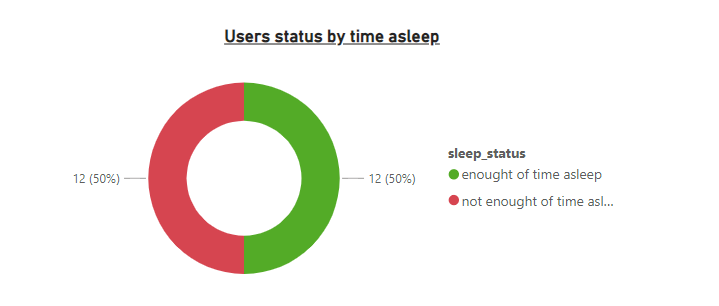
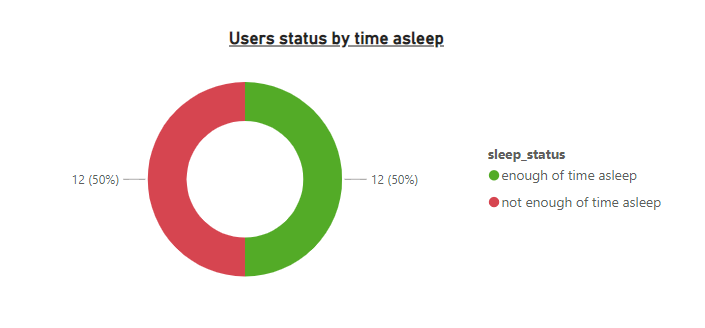
End of project

diff --git a/README.md b/README.md
@@ -200,22 +200,22 @@ GROUP BY Id;
 >The grapf shows us that only 13 users (39%) are very activ or active, i.e. more than 10 000 steps, and 20 users (61%) are less then 10 000 steps per day.
 #### 5.2.4 Sleep breakdowns
 A Sleepfoundation.org article [Sleep Calculator: Your Personalized Tool for Sleep](https://www.sleepfoundation.org/sleep-calculator) in 2023 which found that 7 or more hours is a reasonable target for healthy adults. So I divided users into two categories:
-- **Not enought of time asleep** - less then 7 hours
-- **Enought of time asleep** - 7 and more hours 
+- **Not enough of time asleep** - less then 7 hours
+- **Enough of time asleep** - 7 and more hours 
 ```
 SELECT 
   Id,
   (AVG(TotalMinutesAsleep)/60) as Asleep_time,
   CASE
-    WHEN (AVG(TotalMinutesAsleep)/60) < 7.0 THEN "not enought of time asleep"
-    ELSE "enought of time asleep"
+    WHEN (AVG(TotalMinutesAsleep)/60) < 7.0 THEN "not enough of time asleep"
+    ELSE "enough of time asleep"
   END sleep_status,
  FROM `bellabeat-401316.bellabeat.daily_sleep`
  GROUP BY Id;
 ```
 ![Users status asleep](https://github.com/OndrejZapletal99/Google_capstone_project/blob/main/PowerBi/user_status_asleep.png)
 
->The graph shows us that only 50% of users have enought time of asleep.
+>The graph shows us that only 50% of users have enough time of asleep.
 
 The next graph will confirm or refute the hypothesis that people with 10 000 steps sleep aroud 8 and more hours.
 
@@ -233,4 +233,11 @@ s.Id,
 
  >The graph shows us that people with 10 000 steps (aprox.) sleep around 7-8 hours in average. But the graph shows outliers, which can be measurement errors.
 
-## 7. Act
+## 7. Act - Summary a Recommendations
+1. More then 50 % of users are Light active or Moderate active in the use of device. Maybe it could be good prepare some challenges to use the device more. FOr example:
+  - daily, weeklyn mothly challenges
+  - notifications/reminders
+2. More than 61 % of users do not achieve 10 000 steps/ day and 21 % users do not even walk 5000 steps. The company could launch a campaign on the topic of minimum steps for a good health.
+3. More then 50% of users do not sleep enough. The company could launch a campaign on the topic of hours asleep for a good health.
+4. I would recommend that Bellabeat should focus on women that have sedentary job and lifestyle.
+5. For the next survey would be fine to have data about demographic.
